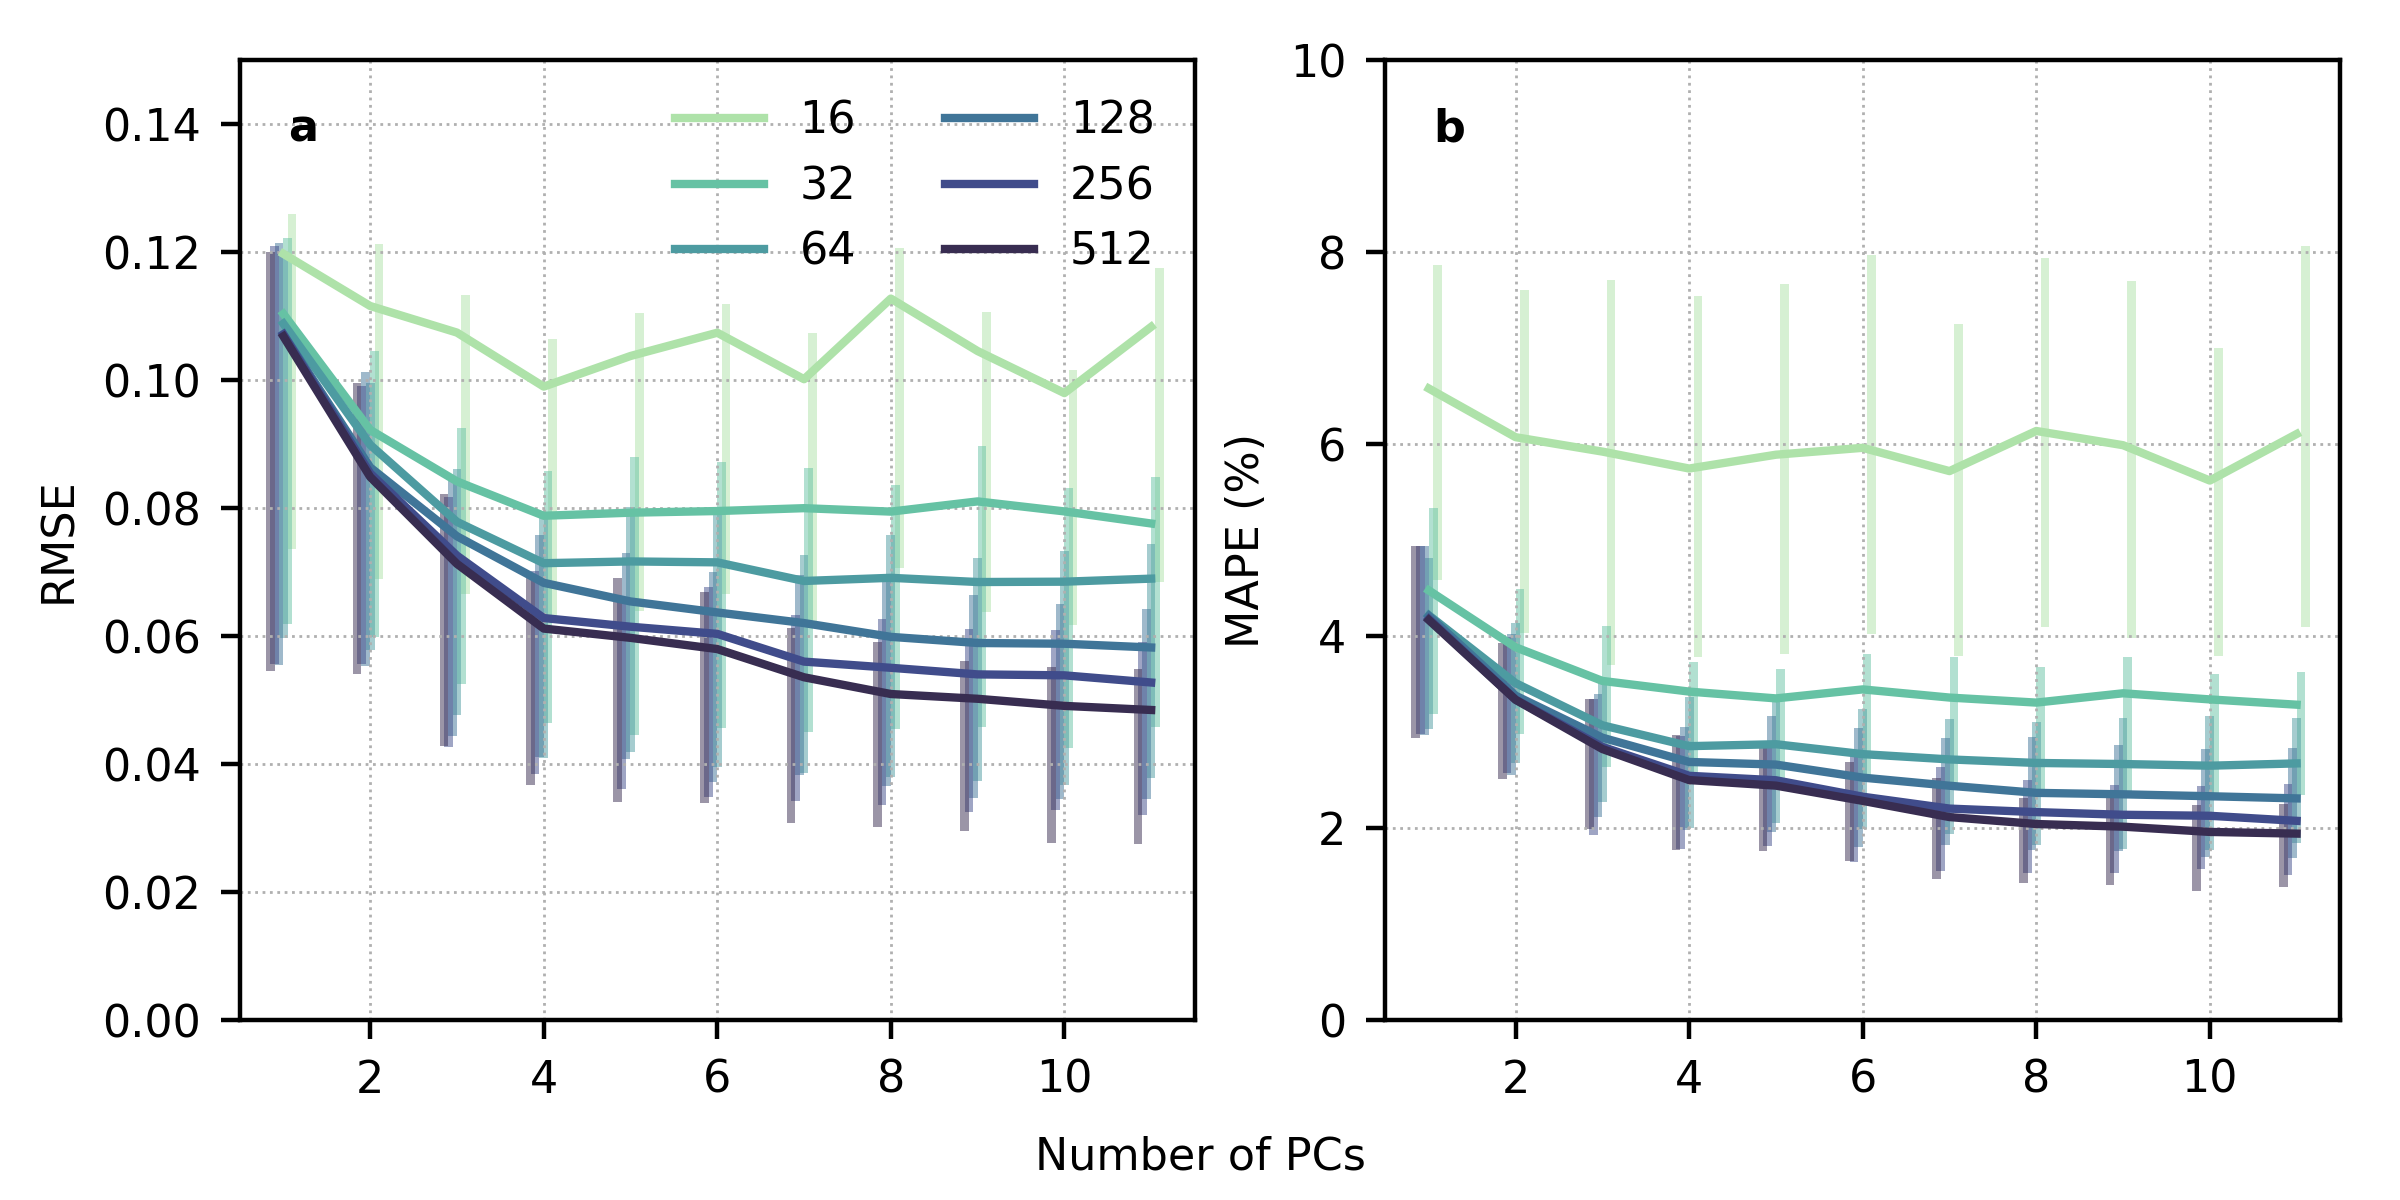
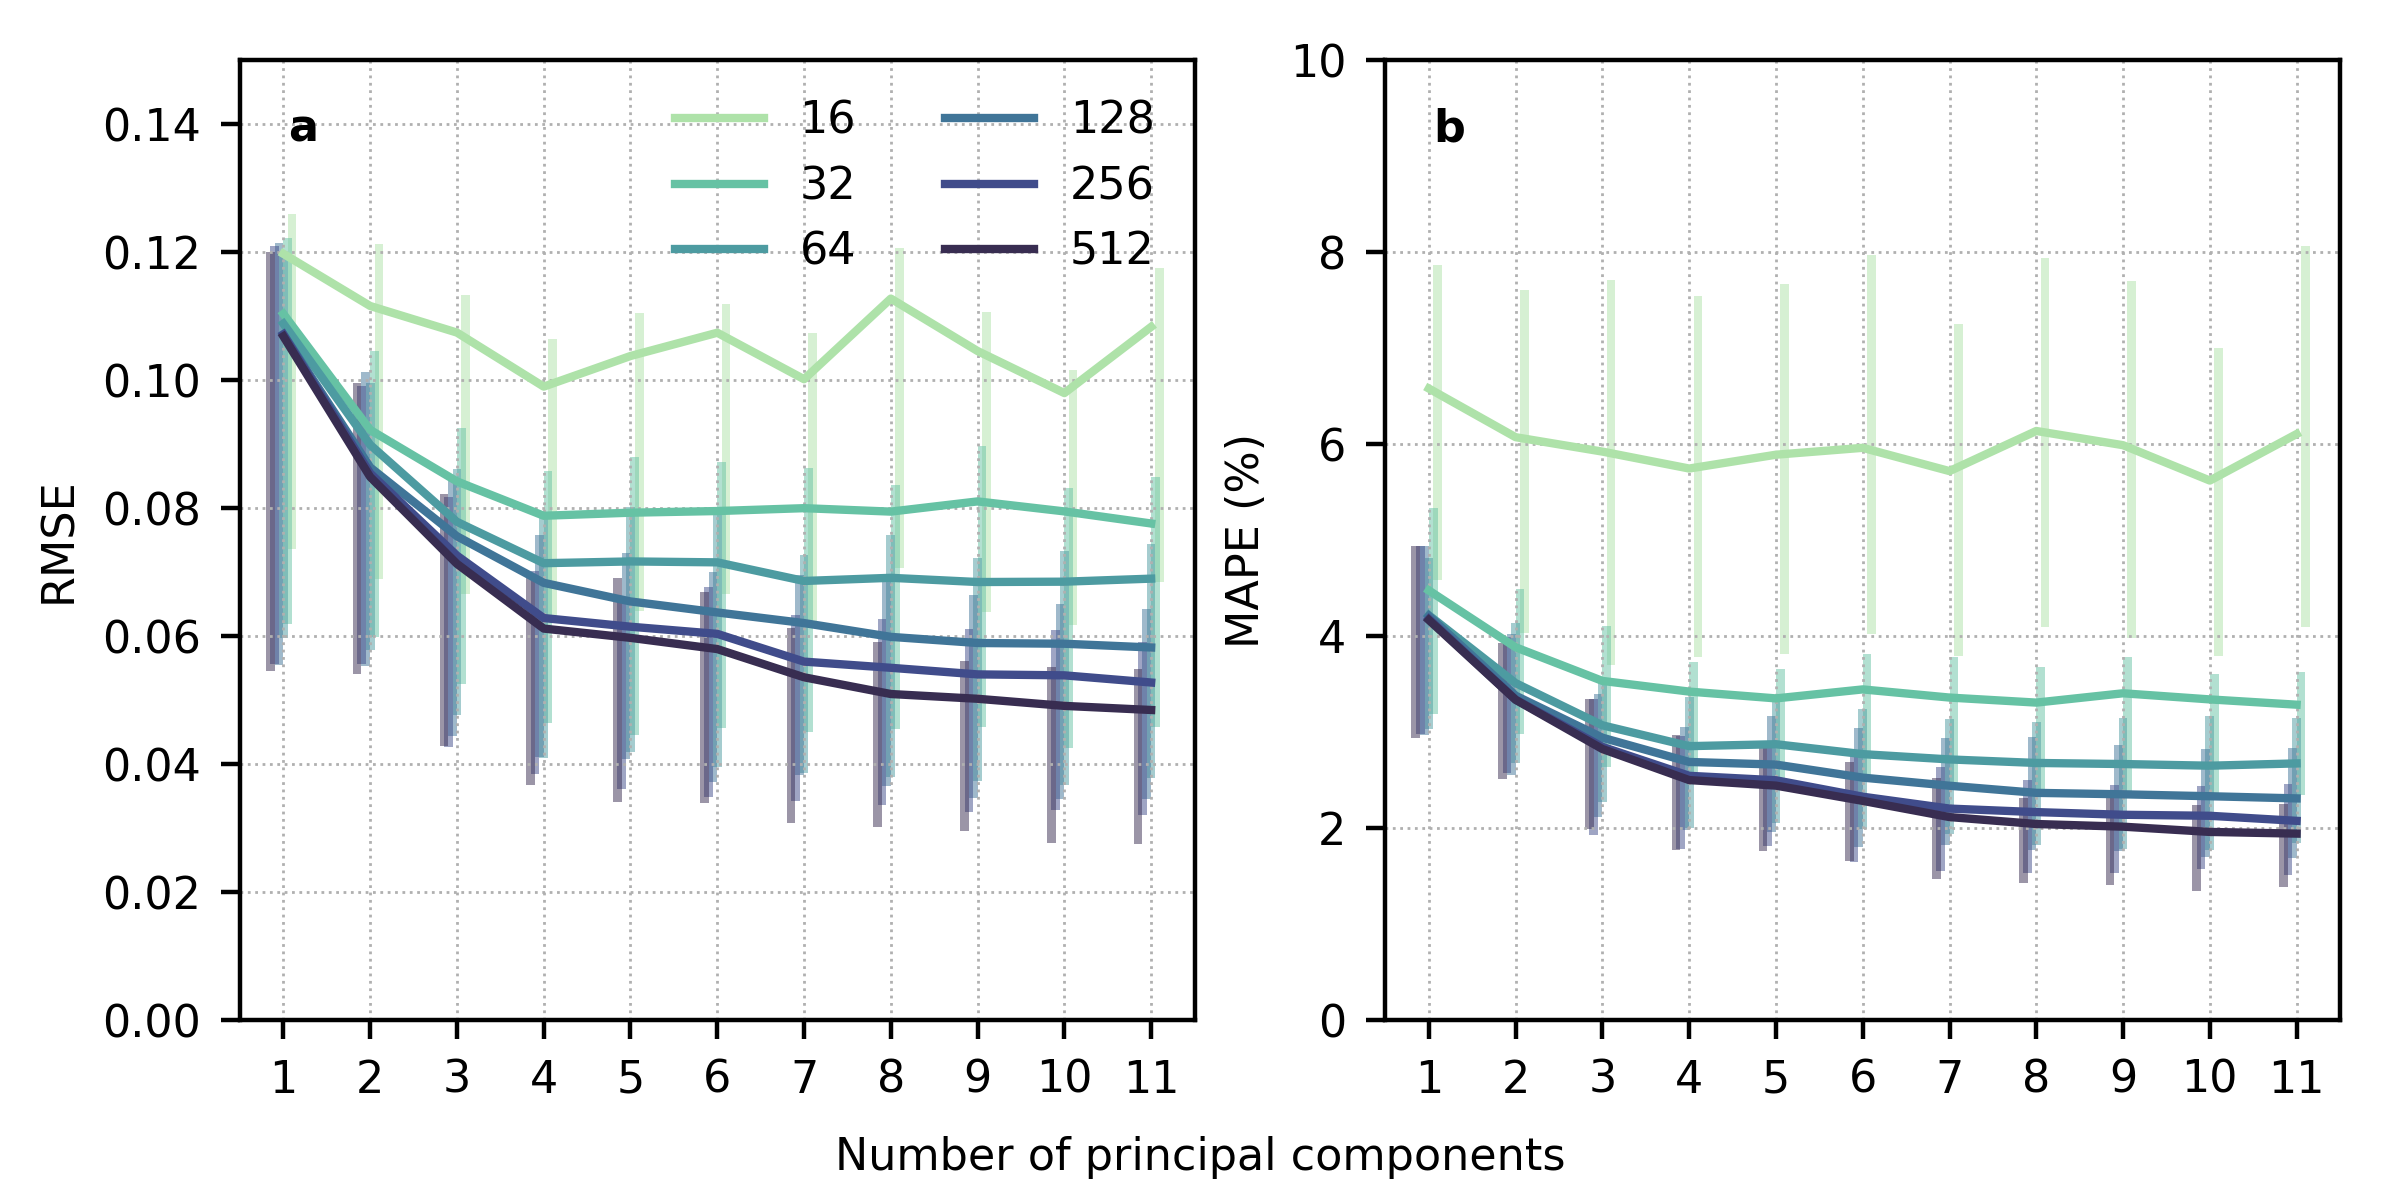
Spell out PCs on joint figure

Changed region(s): [[0.3438, 0.925, 0.6562, 0.9867], [0.9375, 0.8942, 0.9688, 0.925], [0.4688, 0.8942, 0.5, 0.925]]

diff --git a/experiments/synthetic/analysis/assess_all_models.py b/experiments/synthetic/analysis/assess_all_models.py
@@ -356,6 +356,7 @@ def plot_joint_loss(path, n_sims, n_pcs):
             dy = dys[i]
             ub = dy*np.ceil(ymax/dy)
             ax.set_xlim([n_pcs[0]-0.5, n_pcs[-1]+0.5])
+            ax.set_xticks(n_pcs)
             ylim = ax.get_ylim()
             ax.set_ylim([0, ub])
 
@@ -381,7 +382,7 @@ def plot_joint_loss(path, n_sims, n_pcs):
         ax.text(0.05, 0.95, alphabet[i], transform=ax.transAxes,
             ha='left', va='top', fontweight='bold')
     
-    fig.text(0.5, 0.025, 'Number of PCs', ha='center')
+    fig.text(0.5, 0.025, 'Number of principal components', ha='center')
     ax1.legend(loc='upper right', frameon=False, ncols=2)
     fig.subplots_adjust(left=0.1, bottom=0.15, right=0.975, top=0.95, wspace=0.2)
     return fig
